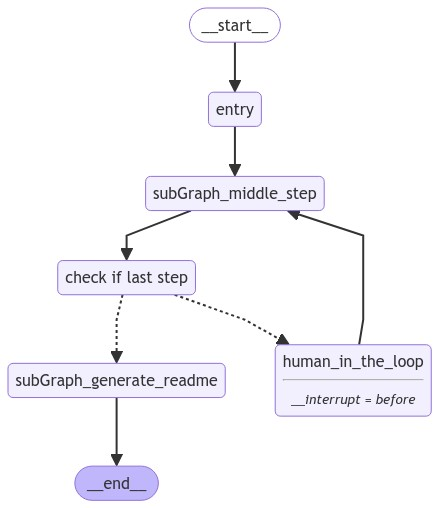
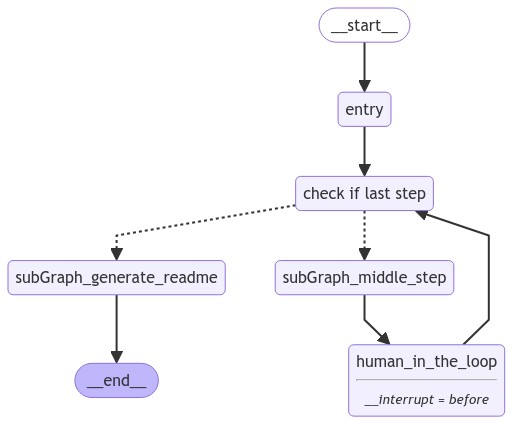
revamp main_graph flow to return readme result properly

diff --git a/app/views/gen.py b/app/views/gen.py
@@ -8,8 +8,8 @@ from fasthtml.common import *
 from app.components.step import Step
 
 from app.utils.get_repo_info import get_repo_info
-from app.utils.db_functions import initialize_db, insert_step_db
-from app.data.step_list import step_list
+from app.utils.db_functions import initialize_db, insert_step_db, update_readme_content
+from app.data.step_list import STEP_LIST
 from app.agents.main_graph import main_graph
 from app.global_vars import DEBUG
 from app.db import db
@@ -97,7 +97,6 @@ async def step_initializer(
             "error",
         ) #! toast not working
         return Div(Titled("Invalid Github clone URL"), cls="container")
-    
 
     if os.path.exists(f"/vol"):
         cache_dir = f"/vol/cache"
@@ -110,8 +109,8 @@ async def step_initializer(
     repo_info = get_repo_info(clone_url, cache_dir)
     initial_state = {
         **repo_info,
-        "middle_step": step_list[0],
-        "total_number_of_steps": len(step_list),
+        "middle_step": STEP_LIST[0],
+        "total_number_of_steps": len(STEP_LIST),
     }
 
     try:
@@ -128,13 +127,13 @@ async def step_initializer(
     except Exception as e:
         raise e
     
-    r = initialize_db(session["session_id"], project_id, answered_middle_steps[0]["answer"], step_list[0]["feedback_question"], retrieved_chunks)
+    r = initialize_db(session["session_id"], project_id, answered_middle_steps[0]["answer"], STEP_LIST[0]["feedback_question"], retrieved_chunks)
     if r:
         return RedirectResponse(url=f"/step/{"0"}/{project_id}", status_code=303) #TODO: need to be able to use uri instead of hardcoding
 
 
 def step_view(step: str, project_id: str):
-    print("==>> step_view")
+    print("==>> step_view:", step, project_id)
     step_data = next(db.t.steps.rows_where(
         "step = ? AND readme_id= ?", [step, project_id]
     ), None)
@@ -151,6 +150,7 @@ def step_view(step: str, project_id: str):
                 retrieved_chunks,
                 project_id,
                 next_step=str(int(step) + 1),
+                is_last_step= True if int(step) == len(STEP_LIST)-1 else False,
             )
         )
     else:
@@ -168,29 +168,13 @@ async def step_handler(
     project_id: str,
     step: str,
     request: Request,
-):
-    if int(step) > len(step_list) - 1:
-        return Main(id="step")(
-            Titled("AI README Generator"),
-            Div()(
-                P("Congratulations! You have completed the README generation process."),
-            )
-        )
+):    
     print("==>> step_handler for step: ", step)
     if DEBUG:
         print("DEBUG MODE. SKIP GRAPH")  
         r = insert_step_db(step, project_id,  "test_feedback_question", "test_answer",["test_retrieved_chunks"])
         if r:
-            return Main(id="step")(
-                Titled("AI README Generator"),
-                Step(
-                    "DEBUG MODE",
-                    "DEBUG MODE",
-                    ["DEBUG MODE"],
-                    project_id,
-                    next_step=str(int(step) + 1),
-                )
-            )
+            return RedirectResponse(url=f"/step/{str(int(step))}/{project_id}", status_code=303)
         else:
             return Div(
                 "Error: Something went wrong. Please try again later.",
@@ -212,20 +196,21 @@ async def step_handler(
 
     try:
         config = {"configurable": {"thread_id": project_id}}
-        last_state = None
-        for state in main_graph.get_state_history(config):
-            last_state = state
-            break
-        print("==>> last_state: ", last_state)
-        if last_state is None:
-            raise Exception("No state found in the graph")
+        # last_state = None
+        # for state in main_graph.get_state_history(config):
+        #     last_state = state
+        #     break
+        # print("==>> last_state: ", last_state)
+        # if last_state is None:
+        #     raise Exception("No state found in the graph")
+        print(f"update state with curent_step: ", int(step))
         main_graph.update_state(
             config,
             values={
+                # **(last_state.values if last_state is not None else {}),
                 "user_feedback_list": [user_feedback],
                 "current_step": int(step),
-                "middle_step": step_list[int(step)],
-                **(last_state.values if last_state is not None else {})
+                "middle_step": STEP_LIST[int(step)],
             }
         )
         r = main_graph.invoke(
@@ -234,7 +219,6 @@ async def step_handler(
         )
         answered_middle_steps = r.get("answered_middle_steps", None)
         retrieved_chunks = r.get("retrieved_chunks", None)
-        generated_readme = r.get("generated_readme", None)
  
     except Exception as e:
         raise e
@@ -242,24 +226,62 @@ async def step_handler(
     r = insert_step_db(
         step, 
         project_id,
-        step_list[int(step)]["feedback_question"], 
+        STEP_LIST[int(step)]["feedback_question"], 
         answered_middle_steps[-1]["answer"],
         retrieved_chunks,
     )
     
     if r:
-        return Main(id="step")(
-            Titled("AI README Generator"),
-            Step(
-                step_list[int(step)]["feedback_question"],
-                answered_middle_steps[-1]["answer"],
-                retrieved_chunks,
-                project_id,
-                next_step=str(int(step) + 1),
-            )
-        )
+        return RedirectResponse(url=f"/step/{str(int(step))}/{project_id}", status_code=303)
     else:
         return Div(
             "Error: Something went wrong. Please try again later.",
             cls="error-message",
         )
+
+async def generate_readme(project_id: str):
+    print("==>> generate_readme")
+    if DEBUG:
+        print("DEBUG MODE. SKIP GRAPH")  
+        r = update_readme_content(project_id, "DEBUG MODE. README GENERATED")
+        if r:
+            return RedirectResponse(url=f"/result/{project_id}", status_code=303)
+        else:
+            return Div(
+                "Error: Something went wrong. Please try again later.",
+                cls="error-message",
+            )
+
+    config = {"configurable": {"thread_id": project_id}}
+    r = main_graph.update_state(
+        config,
+        values={
+            "current_step": len(STEP_LIST),
+        }
+    )
+    r = main_graph.invoke(
+            None,
+            config,
+        )
+    generated_readme = r.get("generated_readme", None)
+    print(f"==>> generated_readme: {generated_readme}")
+    r = update_readme_content(project_id, generated_readme)
+    if r:
+        return RedirectResponse(url=f"/result/{project_id}", status_code=303)
+    else:
+        return Div(
+            "Error: Something went wrong. Please try again later.",
+            cls="error-message",
+        )
+
+def result_view(project_id: str):
+    readme_data = db.t.readmes.get(project_id)
+    print(f"==>> readme_data: {readme_data}")
+    return Main(id="step")(
+        Titled("AI README Generator"),
+        Div(cls="container")(
+            H4("Congratulations! You have completed the README generation process."),
+            H5("Here is the generated README:"),
+            P(readme_data.content),
+        )
+    )

diff --git a/app/components/step.py b/app/components/step.py
@@ -1,7 +1,7 @@
 from fasthtml.common import *
 
 
-def Step(feedback_question, answer, retrieved_chunks, project_id, next_step):
+def Step(feedback_question, answer, retrieved_chunks, project_id, next_step, is_last_step=False):
     """A step is a intermeidate process to generate a REAME file. For example, there could be 3 steps where the first step is to generate the entry point of the repository, second step is to generate get_started section and third step is to generate the installation section."""
 
     return Div(cls="container bordered-container")(
@@ -20,13 +20,25 @@ def Step(feedback_question, answer, retrieved_chunks, project_id, next_step):
             Textarea(name="user_feedback", placeholder="Enter your feedback here"),
             Button("Apply Feedback", type="submit", cls="outline"),
         ),
-        Button(
-            "Next Step",
-            type="submit",
-            cls="outline",
-            post=uri("step_handler", project_id=project_id, step=next_step),
-            hx_swap="outerHTML",
-            hx_target="#step",
-            hx_replace_url="true",
+        (
+            Button(
+                "Next Step",
+                type="submit",
+                cls="outline",
+                post=uri("step_handler", project_id=project_id, step=next_step),
+                hx_swap="outerHTML",
+                hx_target="#step",
+                hx_replace_url="true",
+            )
+            if not is_last_step
+            else Button(
+                "Finish",
+                type="submit",
+                cls="outline",
+                post=uri("generate_readme", project_id=project_id),
+                hx_swap="outerHTML",
+                hx_target="#step",
+                hx_replace_url="true",
+            )
         ),
     )

diff --git a/app/agents/main_graph.py b/app/agents/main_graph.py
@@ -12,6 +12,12 @@ from app.utils.converters import to_path_map
 from app.agents.subgraphs.middle_step.graph import subGraph_middle_step
 from app.agents.subgraphs.generate_readme.graph import subGraph_generate_readme
 
+def check_if_last_step(state):
+    print(f"current_step: {state["current_step"]} out of {state["total_number_of_steps"]}")
+    if state["current_step"] >= state["total_number_of_steps"]:
+        return n(subGraph_generate_readme)
+    return n(subGraph_middle_step)
+
 
 g = StateGraph(State)
 g.set_entry_point("entry")
@@ -22,27 +28,23 @@ g.add_node(
         "retrieval_count": 0,
     },
 )
-g.add_edge("entry", n(subGraph_middle_step))
-
-g.add_node(n(subGraph_middle_step), subGraph_middle_step)
-g.add_edge(n(subGraph_middle_step), "check if last step")
+g.add_edge("entry", "check if last step")
 
 g.add_node("check if last step", RunnablePassthrough())
 g.add_conditional_edges(
     "check if last step",
-    lambda state: (
-        n(subGraph_generate_readme)
-        if state["current_step"] >= state["total_number_of_steps"]
-        else "human_in_the_loop"
-    ),
+    check_if_last_step,
     to_path_map(
         [n(subGraph_generate_readme),
-         "human_in_the_loop"]
+         n(subGraph_middle_step)]
     ),
 )
 
+g.add_node(n(subGraph_middle_step), subGraph_middle_step)
+g.add_edge(n(subGraph_middle_step), "human_in_the_loop")
+
 g.add_node("human_in_the_loop", lambda state: print(f"Got feedback from the user: {state["user_feedback_list"]}"))
-g.add_edge("human_in_the_loop", n(subGraph_middle_step))
+g.add_edge("human_in_the_loop", "check if last step")
 
 g.add_node(n(subGraph_generate_readme), subGraph_generate_readme)
 g.add_edge(n(subGraph_generate_readme), END)

diff --git a/run_graph_locally.py b/run_graph_locally.py
@@ -6,7 +6,7 @@ import os
 from app.agents.main_graph import main_graph
 from app.utils.get_repo_info import get_repo_info
 
-from app.data.step_list import step_list
+from app.data.step_list import STEP_LIST
 
 CLONE_URL = "https://github.com/minki-j/AI_README_Generator.git"
 
@@ -17,14 +17,14 @@ config = {"configurable": {"thread_id": "3"}, "recursion_limit": 100}
 result = main_graph.invoke(
     {
         **repo_info,
-        "middle_step": step_list[0],
+        "middle_step": STEP_LIST[0],
         "current_step": 0,
-        "total_number_of_steps": len(step_list),
+        "total_number_of_steps": len(STEP_LIST),
     },
     config,
 )
 
-for i in range(len(step_list) - 1):
+for i in range(len(STEP_LIST) - 1):
     print(f"--------{i+1}---------")
     user_feedback = input("Enter a feedback:")
     for state in main_graph.get_state_history(config):
@@ -36,7 +36,7 @@ for i in range(len(step_list) - 1):
         {
             "user_feedback_list": [user_feedback],  # Must be a list
             "current_step": int(i + 1),
-            "middle_step": step_list[i + 1],
+            "middle_step": STEP_LIST[i + 1],
         },
     )
     result = main_graph.invoke(None, config)

diff --git a/app/utils/db_functions.py b/app/utils/db_functions.py
@@ -74,3 +74,11 @@ def insert_step_db(step, project_id, feedback_question, answer, retrieved_chunks
     except Exception as e:
         print(f"Error: {e}")
         raise e
+
+def update_readme_content(project_id:str, content:str):
+    try:
+        db.t.readmes.update(pk_values= project_id, updates={"content": content})
+        return True
+    except Exception as e:
+        print(f"Error: {e}")
+        raise e

diff --git a/app/fasthtml_app.py b/app/fasthtml_app.py
@@ -43,3 +43,5 @@ app.get("/")(gen_views.home_view)
 app.post("/init/{project_id}")(gen_views.step_initializer)
 app.get("/step/{step}/{project_id}")(gen_views.step_view)
 app.post("/step/{step}/{project_id}")(gen_views.step_handler)
+app.post("/generate_readme/{project_id}")(gen_views.generate_readme)
+app.get("/result/{project_id}")(gen_views.result_view)

diff --git a/app/agents/subgraphs/generate_readme/generate_readme.py b/app/agents/subgraphs/generate_readme/generate_readme.py
@@ -20,4 +20,4 @@ from typing import List
 
 
 def generate_readme(state: State):
-    return {"generated_readme": "placeholder"}
+    return {"generated_readme": "placeholder for generated readme"}

diff --git a/app/data/step_list.py b/app/data/step_list.py
@@ -1,4 +1,4 @@
-step_list = [
+STEP_LIST = [
     {
         "prompt": "What is the entry point of the codebase?",
         "queries": ["Entry point of the codebase", "How to run the codebase"],

diff --git a/app/global_vars.py b/app/global_vars.py
@@ -1,3 +1,3 @@
 DEBUG = False
-SKIP_COLBERT = False
-SKIP_LLM_CALLINGS = False
+SKIP_COLBERT = True
+SKIP_LLM_CALLINGS = True
